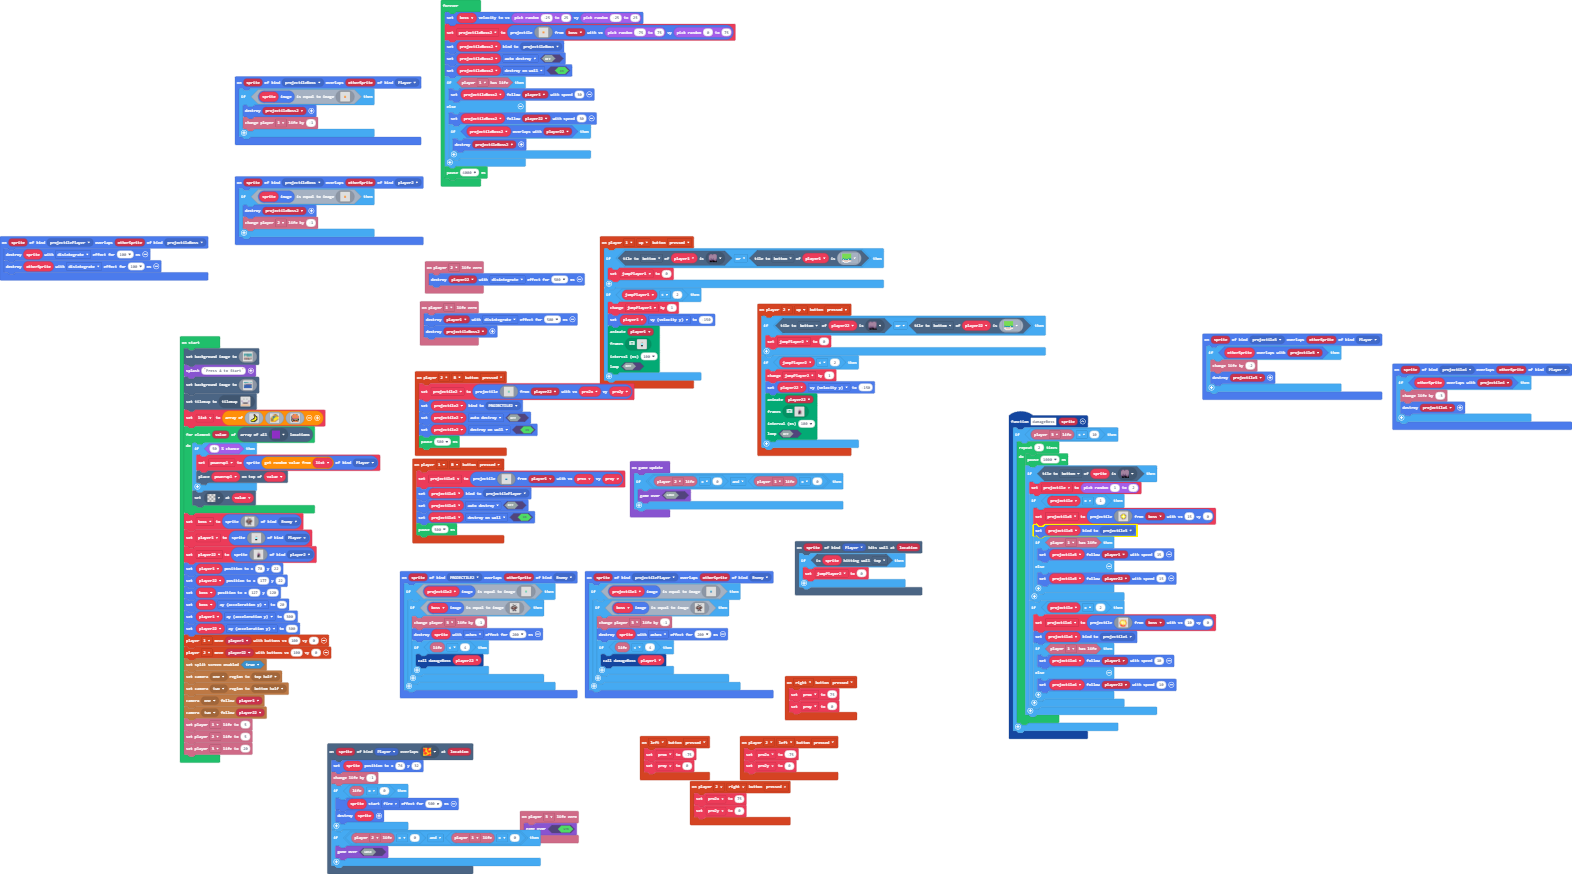
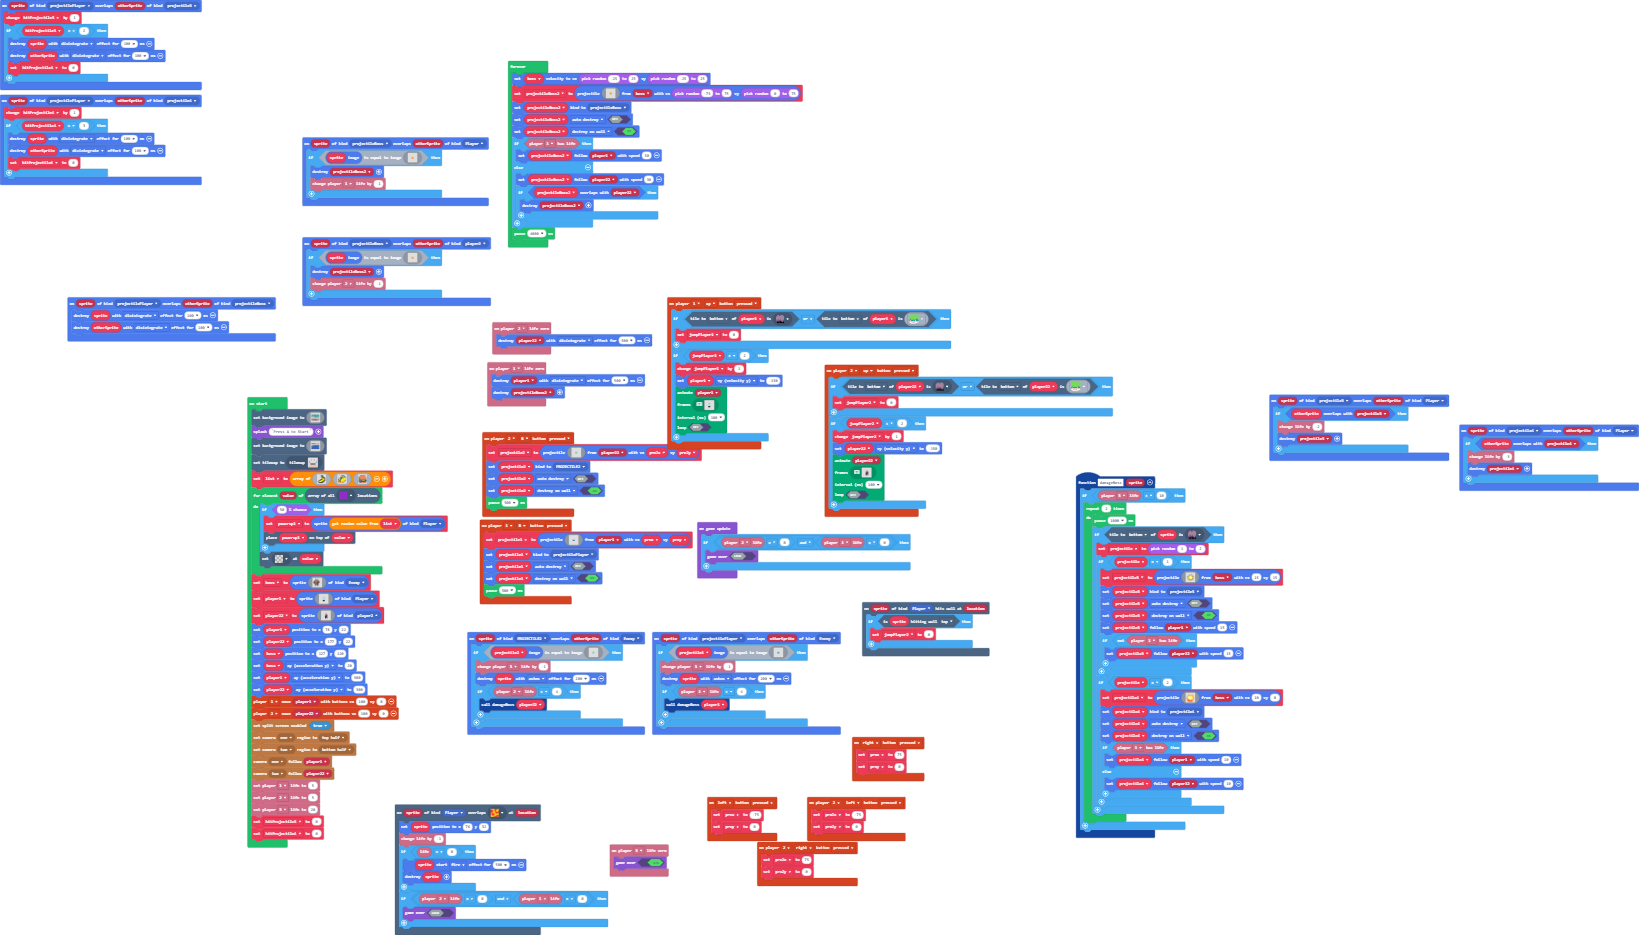
Update main.blocks, main.ts

diff --git a/main.ts b/main.ts
@@ -58,6 +58,14 @@ sprites.onOverlap(SpriteKind.projectileBoss, SpriteKind.Player, function (sprite
         info.player1.changeLifeBy(-1)
     }
 })
+sprites.onOverlap(SpriteKind.projectilePlayer, SpriteKind.projectile3, function (sprite, otherSprite) {
+    hitProjectile3 += 1
+    if (hitProjectile3 == 2) {
+        sprites.destroy(sprite, effects.disintegrate, 100)
+        sprites.destroy(otherSprite, effects.disintegrate, 100)
+        hitProjectile4 = 0
+    }
+})
 controller.player1.onButtonEvent(ControllerButton.Up, ControllerButtonEvent.Pressed, function () {
     if (player1.tileKindAt(TileDirection.Bottom, sprites.builtin.oceanDepths0) || player1.tileKindAt(TileDirection.Bottom, sprites.skillmap.islandTile7)) {
         jumpPlayer1 = 0
@@ -286,53 +294,10 @@ sprites.onOverlap(SpriteKind.projectilePlayer, SpriteKind.Enemy, function (sprit
         . . . . . . . . . . . . . . . . 
         . . . . . . . . . . . . . . . . 
         `)) {
-        if (boss.image.equals(img`
-            ........................................
-            ............fff.........................
-            ............fff.........................
-            .............ff..........ff.............
-            .............ff..........ff.............
-            .............fff.......ff...............
-            ................fffffff.................
-            ................fffffff.................
-            .............ffffddddfff................
-            .............ffd8ddd8dddf...............
-            .............ffd8ddd8dddf...............
-            .......fffff.ffdddddddddffff............
-            .....ffeeeef.fffdffffdddfeef............
-            .....ffeeeef.fffdffffdddfeef............
-            ....feeffeef...fdddddddffffeffff........
-            ....feeffeef...fdddddddffffeffff........
-            ....feefeff.....ffffffffeeefeeef........
-            ..fffeeef......feeeeefffeeeeeeef........
-            ..fffeeef......feeeeefffeeeeeeef........
-            ..ffeffefffffffeeeeeeeefefffefff........
-            ..ffeffefeeefeeeeeeeeffffffeeff.........
-            ..ffeffefeeefeeeeeeeeffffffeeff.........
-            ..fffeeefffeeeeeeeeeeeeefffffff.........
-            ....fffefffffeeeeeeeeeeffff.............
-            ....fffefffffeeeeeeeeeeffff.............
-            .....ffff....ffeeeeeefff................
-            .....ffff....ffeeeeeefff................
-            .............ffeffffeff.................
-            .............ffcf..fcccf................
-            .............ffcf..fcccf................
-            ............fffcf..ffccff...............
-            ...........ffcccf...fcccfff.............
-            ...........ffcccf...fcccfff.............
-            .........fffcccf....fccccff.............
-            .........ffffff......ffffff.............
-            .........ffffff......ffffff.............
-            ........................................
-            ........................................
-            ........................................
-            ........................................
-            `)) {
-            info.player3.changeLifeBy(-1)
-            sprites.destroy(sprite, effects.ashes, 200)
-            if (info.life() < 4) {
-                damageBoss(player1)
-            }
+        info.player3.changeLifeBy(-1)
+        sprites.destroy(sprite, effects.ashes, 200)
+        if (info.player1.life() < 4) {
+            damageBoss(player1)
         }
     }
 })
@@ -359,53 +324,10 @@ sprites.onOverlap(SpriteKind.PROJECTILE2, SpriteKind.Enemy, function (sprite, ot
         . . . . . . . . . . . . . . . . 
         . . . . . . . . . . . . . . . . 
         `)) {
-        if (boss.image.equals(img`
-            ........................................
-            ............fff.........................
-            ............fff.........................
-            .............ff..........ff.............
-            .............ff..........ff.............
-            .............fff.......ff...............
-            ................fffffff.................
-            ................fffffff.................
-            .............ffffddddfff................
-            .............ffd8ddd8dddf...............
-            .............ffd8ddd8dddf...............
-            .......fffff.ffdddddddddffff............
-            .....ffeeeef.fffdffffdddfeef............
-            .....ffeeeef.fffdffffdddfeef............
-            ....feeffeef...fdddddddffffeffff........
-            ....feeffeef...fdddddddffffeffff........
-            ....feefeff.....ffffffffeeefeeef........
-            ..fffeeef......feeeeefffeeeeeeef........
-            ..fffeeef......feeeeefffeeeeeeef........
-            ..ffeffefffffffeeeeeeeefefffefff........
-            ..ffeffefeeefeeeeeeeeffffffeeff.........
-            ..ffeffefeeefeeeeeeeeffffffeeff.........
-            ..fffeeefffeeeeeeeeeeeeefffffff.........
-            ....fffefffffeeeeeeeeeeffff.............
-            ....fffefffffeeeeeeeeeeffff.............
-            .....ffff....ffeeeeeefff................
-            .....ffff....ffeeeeeefff................
-            .............ffeffffeff.................
-            .............ffcf..fcccf................
-            .............ffcf..fcccf................
-            ............fffcf..ffccff...............
-            ...........ffcccf...fcccfff.............
-            ...........ffcccf...fcccfff.............
-            .........fffcccf....fccccff.............
-            .........ffffff......ffffff.............
-            .........ffffff......ffffff.............
-            ........................................
-            ........................................
-            ........................................
-            ........................................
-            `)) {
-            info.player3.changeLifeBy(-1)
-            sprites.destroy(sprite, effects.ashes, 200)
-            if (info.life() < 4) {
-                damageBoss(player22)
-            }
+        info.player3.changeLifeBy(-1)
+        sprites.destroy(sprite, effects.ashes, 200)
+        if (info.player2.life() < 4) {
+            damageBoss(player22)
         }
     }
 })
@@ -413,6 +335,14 @@ sprites.onOverlap(SpriteKind.projectile3, SpriteKind.Player, function (sprite, o
     if (otherSprite.overlapsWith(projectile3)) {
         info.changeLifeBy(-2)
         sprites.destroy(projectile3)
+    }
+})
+sprites.onOverlap(SpriteKind.projectilePlayer, SpriteKind.projectile4, function (sprite, otherSprite) {
+    hitProjectile4 += 1
+    if (hitProjectile4 == 3) {
+        sprites.destroy(sprite, effects.disintegrate, 100)
+        sprites.destroy(otherSprite, effects.disintegrate, 100)
+        hitProjectile4 = 0
     }
 })
 controller.player2.onButtonEvent(ControllerButton.Up, ControllerButtonEvent.Pressed, function () {
@@ -627,11 +557,12 @@ function damageBoss (sprite: Sprite) {
                         . . . . . . c b d b c . . . . . 
                         . . . . . . . b d b . . . . . . 
                         . . . . . . . . . . . . . . . . 
-                        `, boss, 15, 0)
+                        `, boss, 15, 15)
                     projectile3.setKind(SpriteKind.projectile3)
-                    if (info.player1.hasLife()) {
-                        projectile3.follow(player1, 15)
-                    } else {
+                    projectile3.setFlag(SpriteFlag.AutoDestroy, false)
+                    projectile3.setFlag(SpriteFlag.DestroyOnWall, true)
+                    projectile3.follow(player1, 15)
+                    if (!(info.player1.hasLife())) {
                         projectile3.follow(player22, 15)
                     }
                 }
@@ -655,6 +586,8 @@ function damageBoss (sprite: Sprite) {
                         . . . . . 2 2 2 2 2 2 . . . . . 
                         `, boss, 10, 0)
                     projectile4.setKind(SpriteKind.projectile4)
+                    projectile4.setFlag(SpriteFlag.AutoDestroy, false)
+                    projectile4.setFlag(SpriteFlag.DestroyOnWall, true)
                     if (info.player1.hasLife()) {
                         projectile4.follow(player1, 10)
                     } else {
@@ -730,6 +663,8 @@ let pro2y = 0
 let pro2x = 0
 let projectile2: Sprite = null
 let jumpPlayer2 = 0
+let hitProjectile4 = 0
+let hitProjectile3 = 0
 let player22: Sprite = null
 let player1: Sprite = null
 let boss: Sprite = null
@@ -1153,6 +1088,8 @@ splitScreen.cameraFollowSprite(splitScreen.Camera.Camera2, player22)
 info.player1.setLife(5)
 info.player2.setLife(5)
 info.player3.setLife(20)
+hitProjectile3 = 0
+hitProjectile4 = 0
 game.onUpdate(function () {
     if (info.player2.life() == 0 && info.player1.life() == 0) {
         game.gameOver(false)
